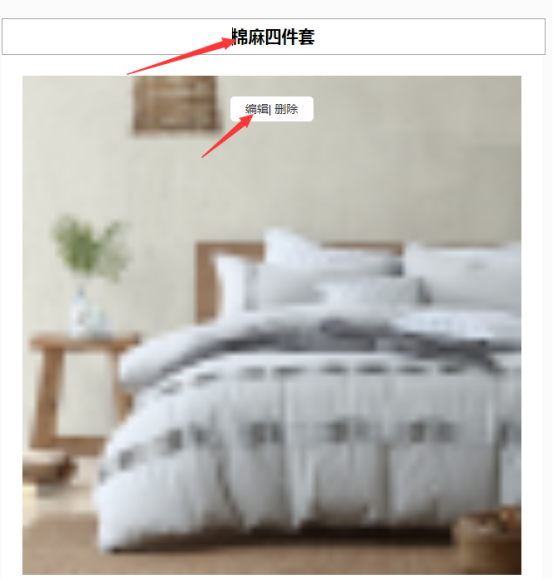
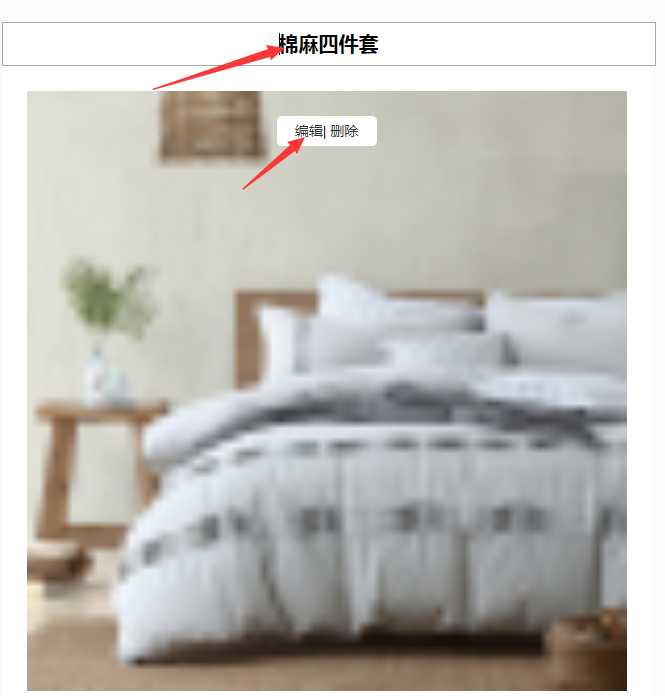
完善

diff --git a/help.html b/help.html
@@ -134,72 +134,72 @@ function initContentDiv(navFlag){
 		contentStr+="<div>行业模板使用操作说明</div>";
 		contentStr+="<div>红酒模板</div>";
 		contentStr+="<div>";
-		contentStr+="<img src=\"qlqrcode_files/images/202004230011.png\" style=\"width:1100px;height:318px;\"/>";
+		contentStr+="<img src=\"qlqrcode_files/images/202004230011.png\" style=\"width:800px;height:230px;\"/>";
 		contentStr+="</div>";
 		contentStr+="<div>导航栏找到红酒点击添加</div>";
 		contentStr+="<div>";
-		contentStr+="<img src=\"qlqrcode_files/images/202004230012.png\"/>";
+		contentStr+="<img src=\"qlqrcode_files/images/202004230012.png\" style=\"width:400px;height:395px;\"/>";
 		contentStr+="</div>";
 		contentStr+="<div>输入标题，点击编辑按钮上传图片</div>";
 		contentStr+="<div>";
-		contentStr+="<img src=\"qlqrcode_files/images/202004230013.png\"/>";
+		contentStr+="<img src=\"qlqrcode_files/images/202004230013.png\" style=\"width:800px;height:242px;\"/>";
 		contentStr+="</div>";
 		contentStr+="<div>输入产品信息，可以上传图片，编辑排版，字体大小可调</div>";
 		contentStr+="<div>";
-		contentStr+="<img src=\"qlqrcode_files/images/202004230014.png\"/>";
+		contentStr+="<img src=\"qlqrcode_files/images/202004230014.png\" style=\"width:400px;height:236px;\"/>";
 		contentStr+="</div>";
 		contentStr+="<div>输入商品详情，操作下面的显示按钮可以根据需要选择显示或隐藏，选择隐藏后扫码不显示</div>";
 		contentStr+="<div>";
-		contentStr+="<img src=\"qlqrcode_files/images/202004230015.png\"/>";
+		contentStr+="<img src=\"qlqrcode_files/images/202004230015.png\" style=\"width:800px;height:278px;\"/>";
 		contentStr+="</div>";
 		contentStr+="<div>上传产品说明和介绍，可以上传图片，编辑排版，字体大小可调</div>";
 		contentStr+="<div>";
-		contentStr+="<img src=\"qlqrcode_files/images/202004230016.png\"/>";
+		contentStr+="<img src=\"qlqrcode_files/images/202004230016.png\" style=\"width:400px;height:396px;\"/>";
 		contentStr+="</div>";
 		contentStr+="<div>点击编辑上传对应的产品图片</div>";
 		contentStr+="<div>";
-		contentStr+="<img src=\"qlqrcode_files/images/202004230017.png\"/>";
+		contentStr+="<img src=\"qlqrcode_files/images/202004230017.png\" style=\"width:400px;height:321px;\"/>";
 		contentStr+="</div>";
 		contentStr+="<div>所有内容上传完成后点击右上角生成二维码</div>";
 		contentStr+="<div>";
-		contentStr+="<img src=\"qlqrcode_files/images/202004230018.png\"/>";
+		contentStr+="<img src=\"qlqrcode_files/images/202004230018.png\" style=\"width:800px;height:657px;\"/>";
 		contentStr+="</div>";
 		contentStr+="<div>生码成功后，扫码查看信息，若生成二维码后内容需要修改，点击编辑内容即可修改，修改后的二维码不需要重新生成，扫码显示内容为最新内容。</div>";
 		contentStr+="<div>例如：</div>";
 		contentStr+="<div>1、家纺模板：</div>";
 		contentStr+="<div>点击左侧导航栏家纺进入：</div>";
 		contentStr+="<div>";
-		contentStr+="<img src=\"qlqrcode_files/images/202004230019.png\" style=\"width:1100px;height:362px;\"/>";
+		contentStr+="<img src=\"qlqrcode_files/images/202004230019.png\" style=\"width:800px;height:262px;\"/>";
 		contentStr+="</div>";
 		contentStr+="<div>点击添加</div>";
 		contentStr+="<div>";
-		contentStr+="<img src=\"qlqrcode_files/images/202004230020.png\"/>";
+		contentStr+="<img src=\"qlqrcode_files/images/202004230020.png\" style=\"width:400px;height:419px;\"/>";
 		contentStr+="</div>";
 		contentStr+="<div>输入名称，编辑图片上传</div>";
 		contentStr+="<div>";
-		contentStr+="<img src=\"qlqrcode_files/images/202004230021.png\"/>";
+		contentStr+="<img src=\"qlqrcode_files/images/202004230021.png\" style=\"width:800px;height:540px;\"/>";
 		contentStr+="</div>";
 		contentStr+="<div>输入产品参数，操作下面的按钮可以根据需要选择显示或隐藏，选择隐藏后扫码不显示</div>";
 		contentStr+="<div>";
-		contentStr+="<img src=\"qlqrcode_files/images/202004230022.png\"/>";
+		contentStr+="<img src=\"qlqrcode_files/images/202004230022.png\" style=\"width:400px;height:422px;\"/>";
 		contentStr+="</div>";
 		contentStr+="<div>根据需要点击编辑上传相应的产品图片</div>";
 		contentStr+="<div>";
-		contentStr+="<img src=\"qlqrcode_files/images/202004230023.png\"/>";
+		contentStr+="<img src=\"qlqrcode_files/images/202004230023.png\" style=\"width:400px;height:333px;\"/>";
 		contentStr+="</div>";
 		contentStr+="<div>所有内容上传完成后点击右上角生成二维码</div>";
 		contentStr+="<div>";
-		contentStr+="<img src=\"qlqrcode_files/images/202004230024.png\"/>";
+		contentStr+="<img src=\"qlqrcode_files/images/202004230024.png\" style=\"width:800px;height:559px;\"/>";
 		contentStr+="</div>";
 		contentStr+="<div>生码成功，扫码查看信息，若生成二维码后内容需要修改，点击编辑内容即可修改，修改后的二维码不需要重新生成，扫码显示内容为最新内容。</div>";
 		contentStr+="<div>2、艺术品模板：</div>";
 		contentStr+="<div>点击左侧导航栏艺术品进入：</div>";
 		contentStr+="<div>";
-		contentStr+="<img src=\"qlqrcode_files/images/202004230025.png\" style=\"width:1100px;height:258px;\"/>";
+		contentStr+="<img src=\"qlqrcode_files/images/202004230025.png\" style=\"width:800px;height:187px;\"/>";
 		contentStr+="</div>";
 		contentStr+="<div>点击添加</div>";
 		contentStr+="<div>";
-		contentStr+="<img src=\"qlqrcode_files/images/202004230026.png\"/>";
+		contentStr+="<img src=\"qlqrcode_files/images/202004230026.png\" style=\"width:400px;height:418px;\"/>";
 		contentStr+="</div>";
 		contentStr+="<div>输入名称，编辑图片上传</div>";
 		contentStr+="<div>";
